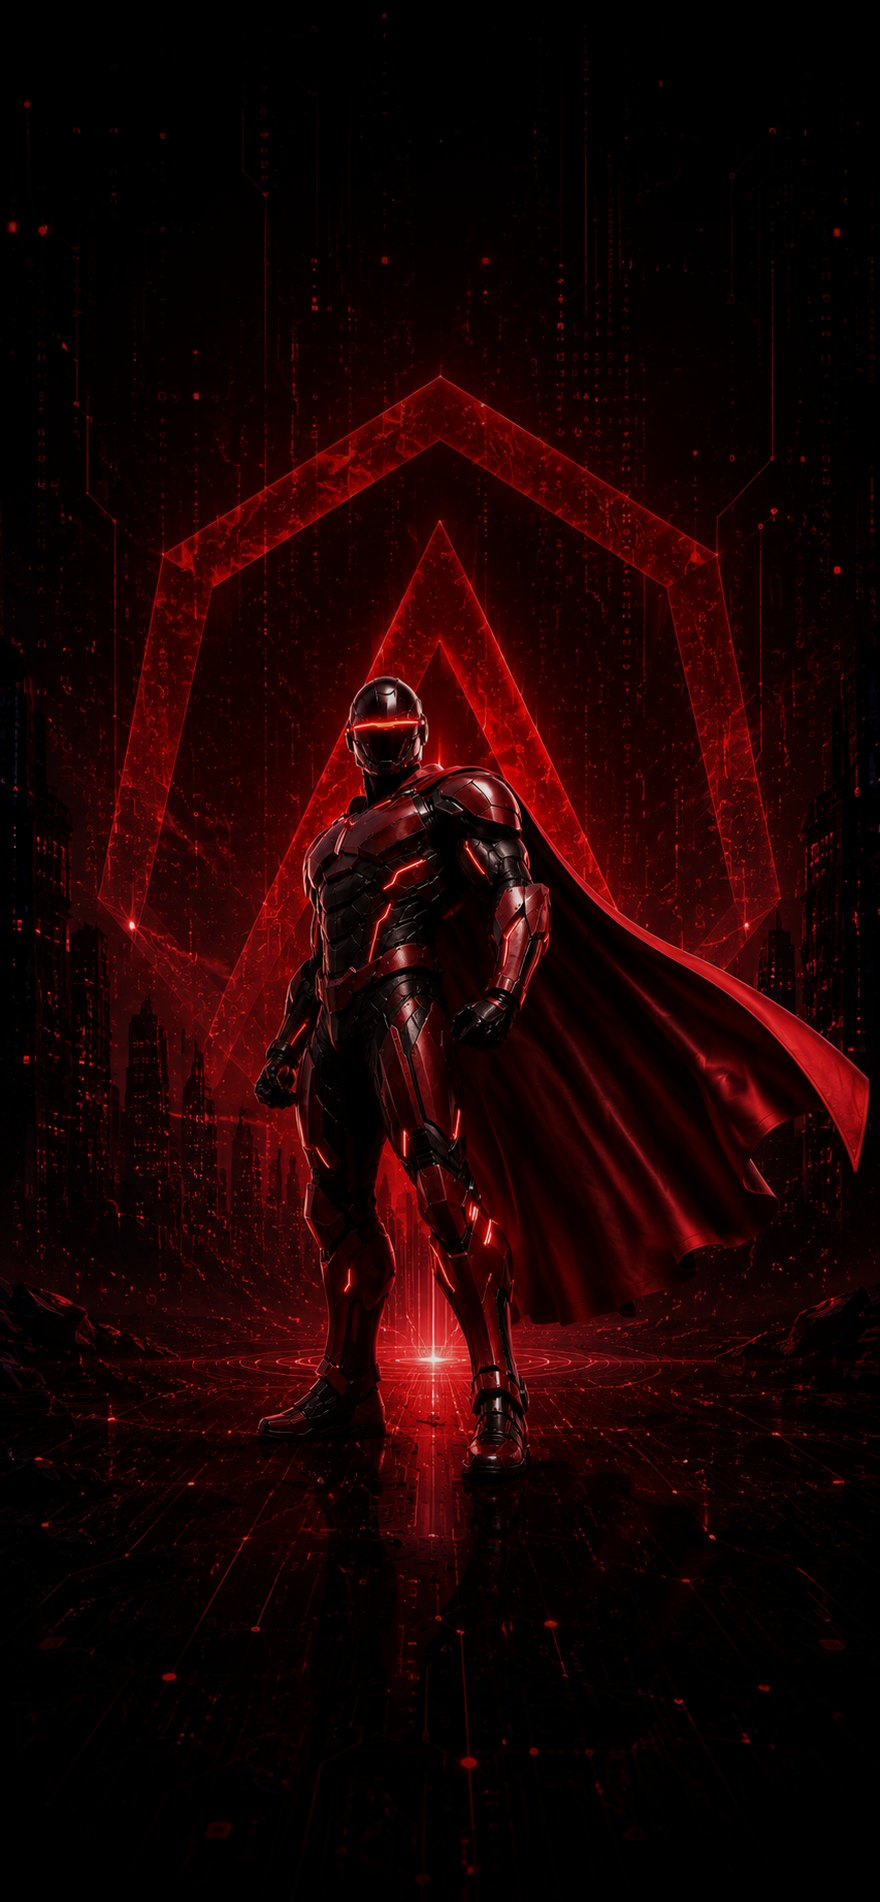
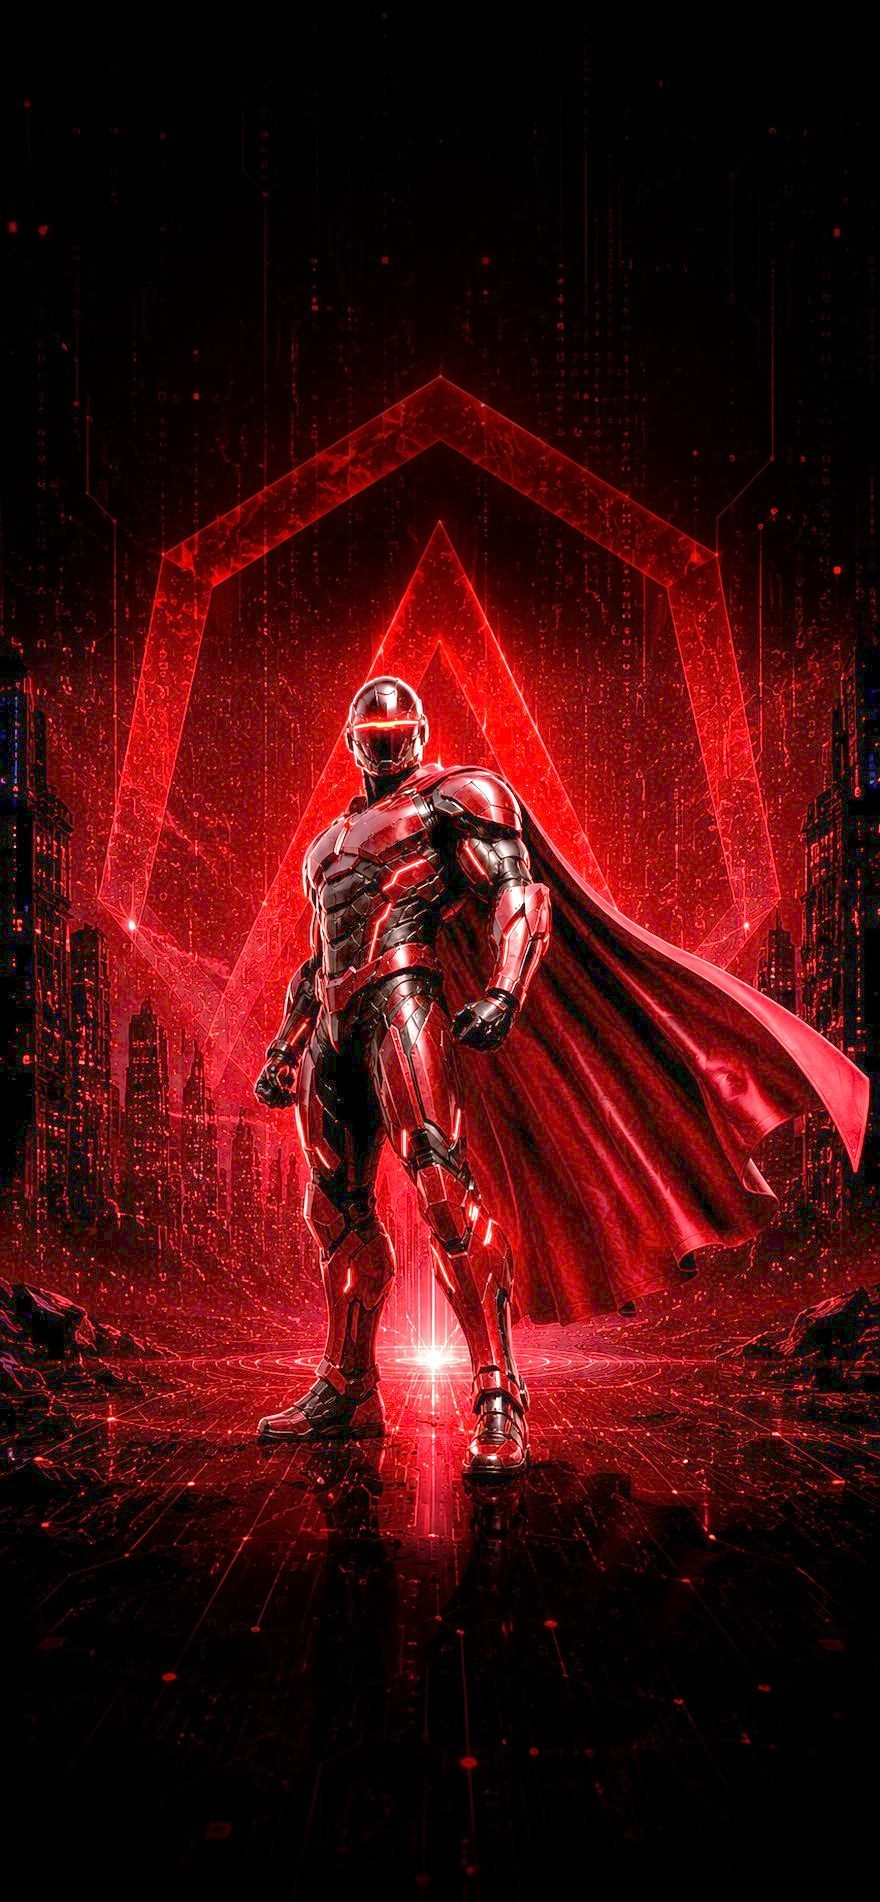
Hero movil: el personaje se ve, ya no queda sepultado
Estaba al 23% de su brillo original. La causa: el velo CSS seguia
calibrado para la imagen ANTERIOR, que no traia velo horneado, y
oscurecia un 74% justo en la franja del personaje (40-72%), encima del
velo que la nueva imagen ya trae. Dos oscurecimientos sobre lo mismo.

- El velo CSS pasa del 74% al 3% en esa franja: ahora solo trabaja donde
  va el texto
- El personaje se realza con una CURVA GAMMA acotada al 36-76% del alto,
  no con brillo. Subir el brillo multiplica todo por igual y quemaba las
  luces rojas del emblema antes de aclarar la armadura negra: a +55% ya
  saturaba un 3.3% de pixeles de mas. La gamma levanta las sombras y deja
  las luces donde estan — gamma 0.45 lo triplica con solo 0.62% de
  quemado extra
- Las zonas de texto quedan intactas: la curva vale 1 fuera de la franja

Render medido: personaje a 57/255 contra los 4.7 de antes (12x), con 5.5x
de contraste contra su entorno. Wordmark e iconos siguen sobre 10/255, asi
que el texto se lee igual de bien.

diff --git a/components/sections/HeroSection.tsx b/components/sections/HeroSection.tsx
@@ -70,7 +70,7 @@ export function HeroSection() {
         className="absolute inset-0 pointer-events-none hero-veil-movil"
         style={{
           background:
-            'linear-gradient(180deg, rgba(8,8,8,0.88) 0%, rgba(8,8,8,0.88) 30%, rgba(8,8,8,0.84) 48%, rgba(8,8,8,0.7) 62%, rgba(8,8,8,0.34) 80%, rgba(8,8,8,0.56) 100%)',
+            'linear-gradient(180deg, rgba(8,8,8,0.62) 0%, rgba(8,8,8,0.56) 20%, rgba(8,8,8,0.22) 33%, rgba(8,8,8,0.03) 44%, rgba(8,8,8,0.03) 72%, rgba(8,8,8,0.3) 82%, rgba(8,8,8,0.55) 100%)',
           zIndex: 1,
         }}
       />
